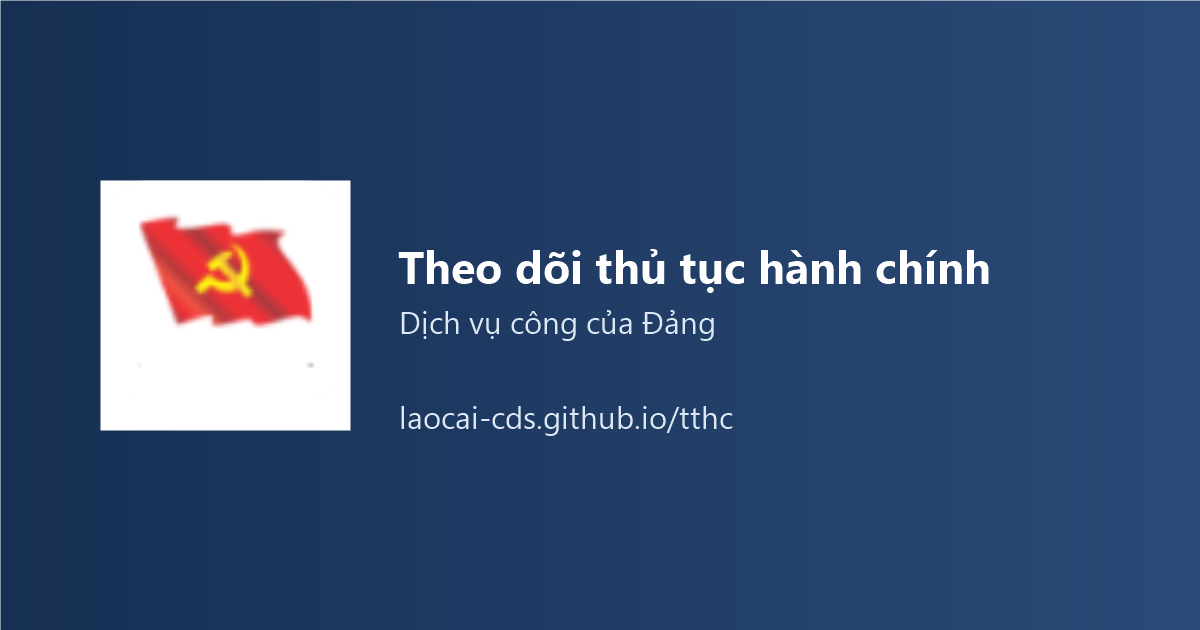
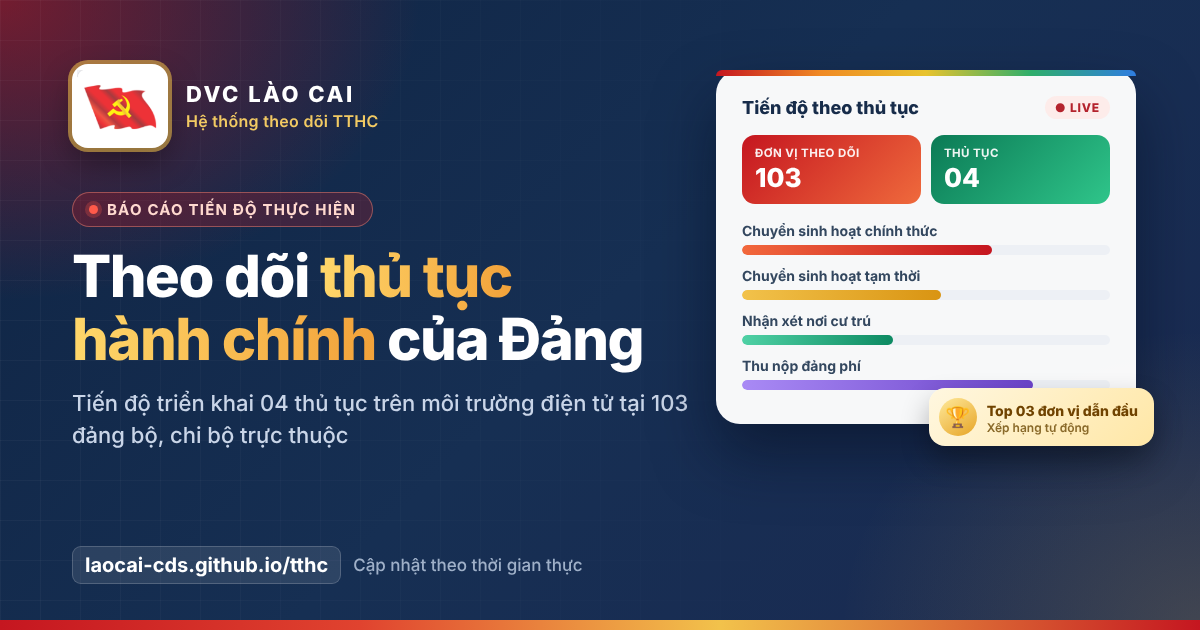
Add files via upload

diff --git a/index.html b/index.html
@@ -3,7 +3,7 @@
 <head>
 <link rel="stylesheet" href="professional-theme.css">
 <meta charset="utf-8"><meta name="viewport" content="width=device-width,initial-scale=1">
-<meta name="theme-color" content="#f6f8fb"><link rel="icon" type="image/png" href="logo.png"><link rel="apple-touch-icon" href="logo.png"><meta name="description" content="Theo dõi tiến độ thực hiện thủ tục hành chính tại các đơn vị tỉnh Lào Cai."><meta property="og:type" content="website"><meta property="og:title" content="Theo dõi thủ tục hành chính | Dịch vụ công của Đảng"><meta property="og:description" content="Theo dõi tiến độ thực hiện thủ tục hành chính tại các đơn vị tỉnh Lào Cai."><meta property="og:url" content="https://laocai-cds.github.io/tthc/"><meta property="og:image" content="https://laocai-cds.github.io/tthc/share-preview.png"><meta property="og:image:width" content="1200"><meta property="og:image:height" content="630"><meta name="twitter:card" content="summary_large_image"><meta name="twitter:title" content="Theo dõi thủ tục hành chính | Dịch vụ công của Đảng"><meta name="twitter:description" content="Theo dõi tiến độ thực hiện thủ tục hành chính tại các đơn vị tỉnh Lào Cai."><meta name="twitter:image" content="https://laocai-cds.github.io/tthc/share-preview.png"><title>Theo dõi thủ tục hành chính | Dịch vụ công của Đảng</title>
+<meta name="theme-color" content="#f6f8fb"><link rel="icon" type="image/png" href="logo.png"><link rel="apple-touch-icon" href="logo.png"><meta name="description" content="Theo dõi tiến độ thực hiện thủ tục hành chính tại các đơn vị tỉnh Lào Cai."><meta property="og:type" content="website"><meta property="og:title" content="Theo dõi thủ tục hành chính | Dịch vụ công của Đảng"><meta property="og:description" content="Theo dõi tiến độ thực hiện thủ tục hành chính tại các đơn vị tỉnh Lào Cai."><meta property="og:url" content="https://laocai-cds.github.io/tthc/"><meta property="og:image" content="https://laocai-cds.github.io/tthc/share-preview.png?v=3"><meta property="og:image:type" content="image/png"><meta property="og:image:width" content="1200"><meta property="og:image:height" content="630"><meta property="og:image:alt" content="DVC Lào Cai – Hệ thống theo dõi thủ tục hành chính của Đảng"><meta property="og:site_name" content="DVC Lào Cai"><meta property="og:locale" content="vi_VN"><meta name="twitter:card" content="summary_large_image"><meta name="twitter:title" content="Theo dõi thủ tục hành chính | Dịch vụ công của Đảng"><meta name="twitter:description" content="Theo dõi tiến độ thực hiện thủ tục hành chính tại các đơn vị tỉnh Lào Cai."><meta name="twitter:image" content="https://laocai-cds.github.io/tthc/share-preview.png?v=3"><meta name="twitter:image:alt" content="DVC Lào Cai – Hệ thống theo dõi thủ tục hành chính của Đảng"><title>Theo dõi thủ tục hành chính | Dịch vụ công của Đảng</title>
 <style>@keyframes ticker-scroll{from{transform:translateX(100%)}to{transform:translateX(-100%)}}.ticker{flex:1;min-width:0;overflow:hidden;margin:0 22px;color:#0284c7;font-size:12px;font-weight:700;white-space:nowrap}.ticker span{display:inline-block;animation:ticker-scroll 18s linear infinite}@media(max-width:900px){.ticker{margin:0 10px;font-size:10px}}.rank-chip{display:inline-flex;min-width:41px;justify-content:center;padding:3px 7px;border-radius:15px;background:#fff4da;color:#9a6714;font-size:10px;font-weight:750}.rank-chip.first{background:#fff0c2;color:#9a5b08}.rank-empty{color:#b1bac6}
 
 :root{--ink:#182b44;--muted:#728198;--line:#e5eaf2;--paper:#fff;--canvas:#f3f6fb;--navy:#162f53;--blue:#3979ed;--green:#12a486;--amber:#e6a52f;--red:#e2766e;--shadow:0 8px 30px rgba(24,43,68,.065)}*{box-sizing:border-box}body{margin:0;background:var(--canvas);color:var(--ink);font:14px/1.5 "Segoe UI",Arial,sans-serif}.app{min-height:100vh}.sidebar{position:fixed;inset:0 auto 0 0;width:246px;background:linear-gradient(165deg,#18345d 0%,#162b4b 52%,#202c56 100%);color:#fff;padding:22px 15px;display:flex;flex-direction:column;z-index:4}.brand{padding:4px 11px 26px;display:flex;align-items:center;gap:11px}.crest{width:40px;height:36px;flex:none;border-radius:8px;background:#fff;display:grid;place-items:center;overflow:hidden}.crest img{display:block;width:38px;height:34px;object-fit:contain}.brand b{display:block;font-size:14px;line-height:1.3}.brand small{color:#aab7ca;font-size:11px}.nav-label{padding:12px 11px 7px;color:#8293ab;font-size:10px;font-weight:700;letter-spacing:1.1px;text-transform:uppercase}.nav{display:grid;gap:5px}.nav button{border:0;color:#bfcbda;background:transparent;padding:10px 11px;border-radius:8px;display:flex;align-items:center;gap:11px;text-align:left;cursor:pointer;font:inherit;font-size:13px}.nav button:hover{background:#ffffff10;color:white}.nav button.active{background:#ffffff17;color:white;font-weight:650}.nav .ico{width:18px;text-align:center;color:#96aac4}.nav button.active .ico{color:#f1c968}.nav .count{margin-left:auto;background:#ffffff19;color:#cfdae8;border-radius:12px;padding:1px 7px;font-size:10px}.sidebar-foot{margin-top:auto;padding:13px 11px;color:#96a7bd;border-top:1px solid #ffffff1a;font-size:11px}.sidebar-foot strong{color:#fff;display:block;font-weight:600;margin-bottom:4px}.sidebar-foot .chat-launch{display:block;width:100%;margin:12px 0 8px;padding:10px 12px;border:1px solid #ffffff30;border-radius:8px;background:#a90e17;color:#fff;text-align:left;font:600 12px "Segoe UI",Arial,sans-serif;box-shadow:0 5px 14px #080f1c30;cursor:pointer}.sidebar-foot .chat-launch:hover{background:#8f0b12}.main{margin-left:246px;min-height:100vh}.topbar{height:64px;padding:0 34px;background:#fff;border-bottom:1px solid var(--line);display:flex;align-items:center;justify-content:space-between;position:sticky;top:0;z-index:3}.crumb{color:var(--muted);font-size:12px}.crumb b{color:var(--ink);font-weight:600}.top-actions{display:flex;align-items:center;gap:10px}.date{color:var(--muted);font-size:12px;margin-right:8px}.btn{border:1px solid var(--line);background:#fff;color:#31445f;padding:8px 12px;border-radius:7px;font-family:inherit;font-size:12px;font-weight:600;cursor:pointer;display:inline-flex;align-items:center;gap:7px}.btn:hover{border-color:#bdc9d8;background:#fafbfd}.btn.primary{background:var(--blue);color:white;border-color:var(--blue)}.btn.primary:hover{background:#285fce}.content{max-width:1500px;margin:auto;padding:27px 34px 40px}.page-footer{margin-top:28px;padding:16px 4px 4px;border-top:1px solid var(--line);color:#728198;text-align:center;font-size:12px;letter-spacing:.15px}.heading{display:flex;align-items:flex-end;justify-content:space-between;margin-bottom:20px}.eyebrow{font-size:11px;letter-spacing:.9px;text-transform:uppercase;color:var(--blue);font-weight:700;margin-bottom:5px}h1{margin:0;font-size:24px;letter-spacing:-.4px;line-height:1.25}#pageTitle{background:linear-gradient(90deg,#e53935,#fb8c00,#fdd835,#43a047,#1e88e5,#8e24aa,#e53935);background-size:300% 100%;background-clip:text;-webkit-background-clip:text;color:transparent;-webkit-text-fill-color:transparent;animation:rainbowTitle 7s linear infinite}@keyframes rainbowTitle{to{background-position:300% 0}} .subtitle{color:var(--muted);font-size:12px;margin-top:5px}.cards{display:grid;grid-template-columns:repeat(5,minmax(0,1fr));gap:14px;margin-bottom:16px}.card,.panel{background:var(--paper);border:1px solid var(--line);border-radius:10px;box-shadow:var(--shadow)}.card{padding:15px 17px;min-height:111px;border-top:3px solid #4c81ef;transition:transform .16s,box-shadow .16s}.card:hover{transform:translateY(-2px);box-shadow:0 12px 28px rgba(24,43,68,.1)}.card:nth-child(2){border-top-color:#14a685}.card:nth-child(3){border-top-color:#e4a738}.card:nth-child(4){border-top-color:#9971df}.card-top{display:flex;justify-content:space-between;align-items:center;color:var(--muted);font-size:11px;font-weight:600}.card-symbol{width:27px;height:27px;border-radius:8px;background:#eaf0ff;display:grid;place-items:center;color:var(--blue);font-size:14px}.card:nth-child(2) .card-symbol{background:#e6f7f1;color:#159879}.card:nth-child(3) .card-symbol{background:#fff5df;color:#c3861f}.card:nth-child(4) .card-symbol{background:#f1ebfc;color:#875dcb}.card-value{font-weight:700;font-size:25px;letter-spacing:-.5px;margin:5px 0 0}.card-foot{font-size:11px;color:#8895a6;margin-top:1px}.card-foot strong{color:var(--green);font-weight:650}.middle{display:grid;grid-template-columns:1.48fr 1fr;gap:14px;margin-bottom:16px}.panel{padding:17px 18px}.panel-head{display:flex;justify-content:space-between;align-items:flex-start;margin-bottom:14px}.panel-head h2{font-size:13px;margin:0;font-weight:700}.panel-head p{font-size:11px;color:var(--muted);margin:3px 0 0}.overview-bars{display:grid;gap:12px}.bar-row{display:grid;grid-template-columns:minmax(155px,1.1fr) minmax(100px,2fr) 42px;gap:11px;align-items:center}.bar-row:nth-child(4n+1) .bar-fill{background:#3979ed}.bar-row:nth-child(4n+2) .bar-fill{background:#16a486}.bar-row:nth-child(4n+3) .bar-fill{background:#e7a632}.bar-row:nth-child(4n) .bar-fill{background:#9270df}.bar-name{font-size:11px;color:#45566d;white-space:nowrap;overflow:hidden;text-overflow:ellipsis}.bar-track{height:7px;background:#edf0f5;border-radius:8px;overflow:hidden}.bar-fill{height:100%;background:var(--blue);border-radius:8px;min-width:0;transition:width .25s}.bar-val{text-align:right;font-weight:650;font-size:11px;color:#44546a}.quick-stats{display:grid;grid-template-columns:1fr 1fr;gap:10px}.mini{padding:11px 12px;border:1px solid var(--line);border-radius:8px;background:#fcfdff}.mini-label{font-size:10px;color:var(--muted)}.mini-val{font-size:18px;font-weight:700;margin-top:2px}.mini-sub{font-size:10px;color:#8b98a8}.note-box{margin-top:12px;padding:10px 11px;background:#f4f7fb;border-radius:7px;color:#67768b;font-size:10px;line-height:1.55}.table-panel{padding:0;overflow:hidden}.table-head{padding:16px 18px 14px;display:flex;justify-content:space-between;align-items:flex-start;gap:15px}.table-head h2{font-size:13px;margin:0}.table-head p{font-size:11px;color:var(--muted);margin:3px 0 0}.filters{display:flex;gap:8px;align-items:center}.input,.select{border:1px solid var(--line);background:white;border-radius:7px;padding:8px 10px;color:#40536c;font-family:inherit;font-size:12px;outline:none}.input:focus,.select:focus,.field input:focus,.field select:focus{border-color:#88aef5;box-shadow:0 0 0 3px #316fe81b}.input{width:220px}.table-wrap{overflow:auto;border-top:1px solid var(--line)}table{border-collapse:collapse;width:100%;white-space:nowrap;font-size:11px}thead th{text-align:left;background:#fafbfd;color:#78869a;font-weight:650;font-size:10px;letter-spacing:.2px;padding:10px 13px;border-bottom:1px solid var(--line)}tbody td{padding:10px 13px;border:1px solid #d9e0e9;color:#46576d} thead th{border:1px solid #d9e0e9}tbody tr:last-child td{border-bottom:0}tbody tr:hover{background:#f9fbfe}.unit-cell{font-weight:600;color:#253952;max-width:275px;white-space:normal}.muted-cell{color:#9ba6b4}.pill{display:inline-flex;align-items:center;border-radius:20px;padding:3px 8px;font-size:10px;font-weight:650}.pill.good{background:#eaf6f1;color:#16765e}.pill.warn{background:#fff4df;color:#946513}.pill.gray{background:#eff2f6;color:#728096}.progress-cell{display:flex;align-items:center;gap:7px}.progress-cell .bar-track{width:67px;height:5px}.progress-cell strong{font-size:10px;min-width:31px;color:#45556a}.done10-col{width:72px;min-width:72px;max-width:72px;text-align:center!important;white-space:normal}.table-panel input[type="checkbox"],.field input[type="checkbox"]{width:16px;height:16px;accent-color:var(--green);vertical-align:middle}.row-action{border:0;background:none;color:#6482aa;cursor:pointer;font-family:inherit;font-size:11px;font-weight:600}.row-action:hover{color:var(--blue)}.table-foot{padding:11px 16px;border-top:1px solid var(--line);display:flex;justify-content:space-between;align-items:center;color:var(--muted);font-size:10px}.pages{display:flex;align-items:center;gap:5px}.pages button{border:1px solid var(--line);background:white;color:#576a83;border-radius:5px;padding:4px 8px;cursor:pointer;font-size:10px}.pages button:disabled{opacity:.45;cursor:default}.pages span{padding:0 5px}.source-line{font-size:10px;color:#98a3b2;padding:12px 2px 0}.overlay{position:fixed;inset:0;background:#13243c66;z-index:8;display:none;justify-content:flex-end}.overlay.open{display:flex}.drawer{width:min(460px,100%);height:100%;background:#fff;box-shadow:-15px 0 50px #14284420;display:flex;flex-direction:column;animation:slide .18s ease-out}@keyframes slide{from{transform:translateX(25px);opacity:.5}to{transform:none;opacity:1}}.drawer-head{padding:22px 23px 16px;border-bottom:1px solid var(--line);display:flex;justify-content:space-between;align-items:flex-start}.drawer-head h2{font-size:17px;margin:0}.drawer-head p{font-size:11px;color:var(--muted);margin:4px 0 0}.close{border:0;background:#f2f4f7;width:30px;height:30px;border-radius:7px;color:#64748b;cursor:pointer;font-size:16px}.drawer-body{padding:18px 23px;overflow:auto;flex:1}.form-grid{display:grid;grid-template-columns:1fr 1fr;gap:13px}.field{display:flex;flex-direction:column;gap:5px}.field.wide{grid-column:1/-1}.field label{font-size:10px;color:#65758a;font-weight:650}.field input,.field select{width:100%;border:1px solid var(--line);border-radius:7px;padding:9px 10px;font-family:inherit;font-size:12px;color:#293d57;outline:none;background:white}.field input[readonly]{background:#f5f7fa;color:#7f8ba0}.section-title{grid-column:1/-1;margin:4px 0 -3px;padding-top:8px;border-top:1px solid var(--line);font-size:10px;text-transform:uppercase;letter-spacing:.7px;color:#8491a1;font-weight:700}.drawer-foot{padding:14px 23px;border-top:1px solid var(--line);display:flex;justify-content:space-between;gap:9px}.toast{position:fixed;bottom:24px;left:50%;transform:translate(-50%,20px);background:#173553;color:#fff;padding:10px 16px;border-radius:8px;font-size:12px;box-shadow:var(--shadow);opacity:0;pointer-events:none;transition:.2s;z-index:10}.toast.show{opacity:1;transform:translate(-50%,0)}.empty{padding:36px;text-align:center;color:var(--muted)}.mobile-menu{display:none}
